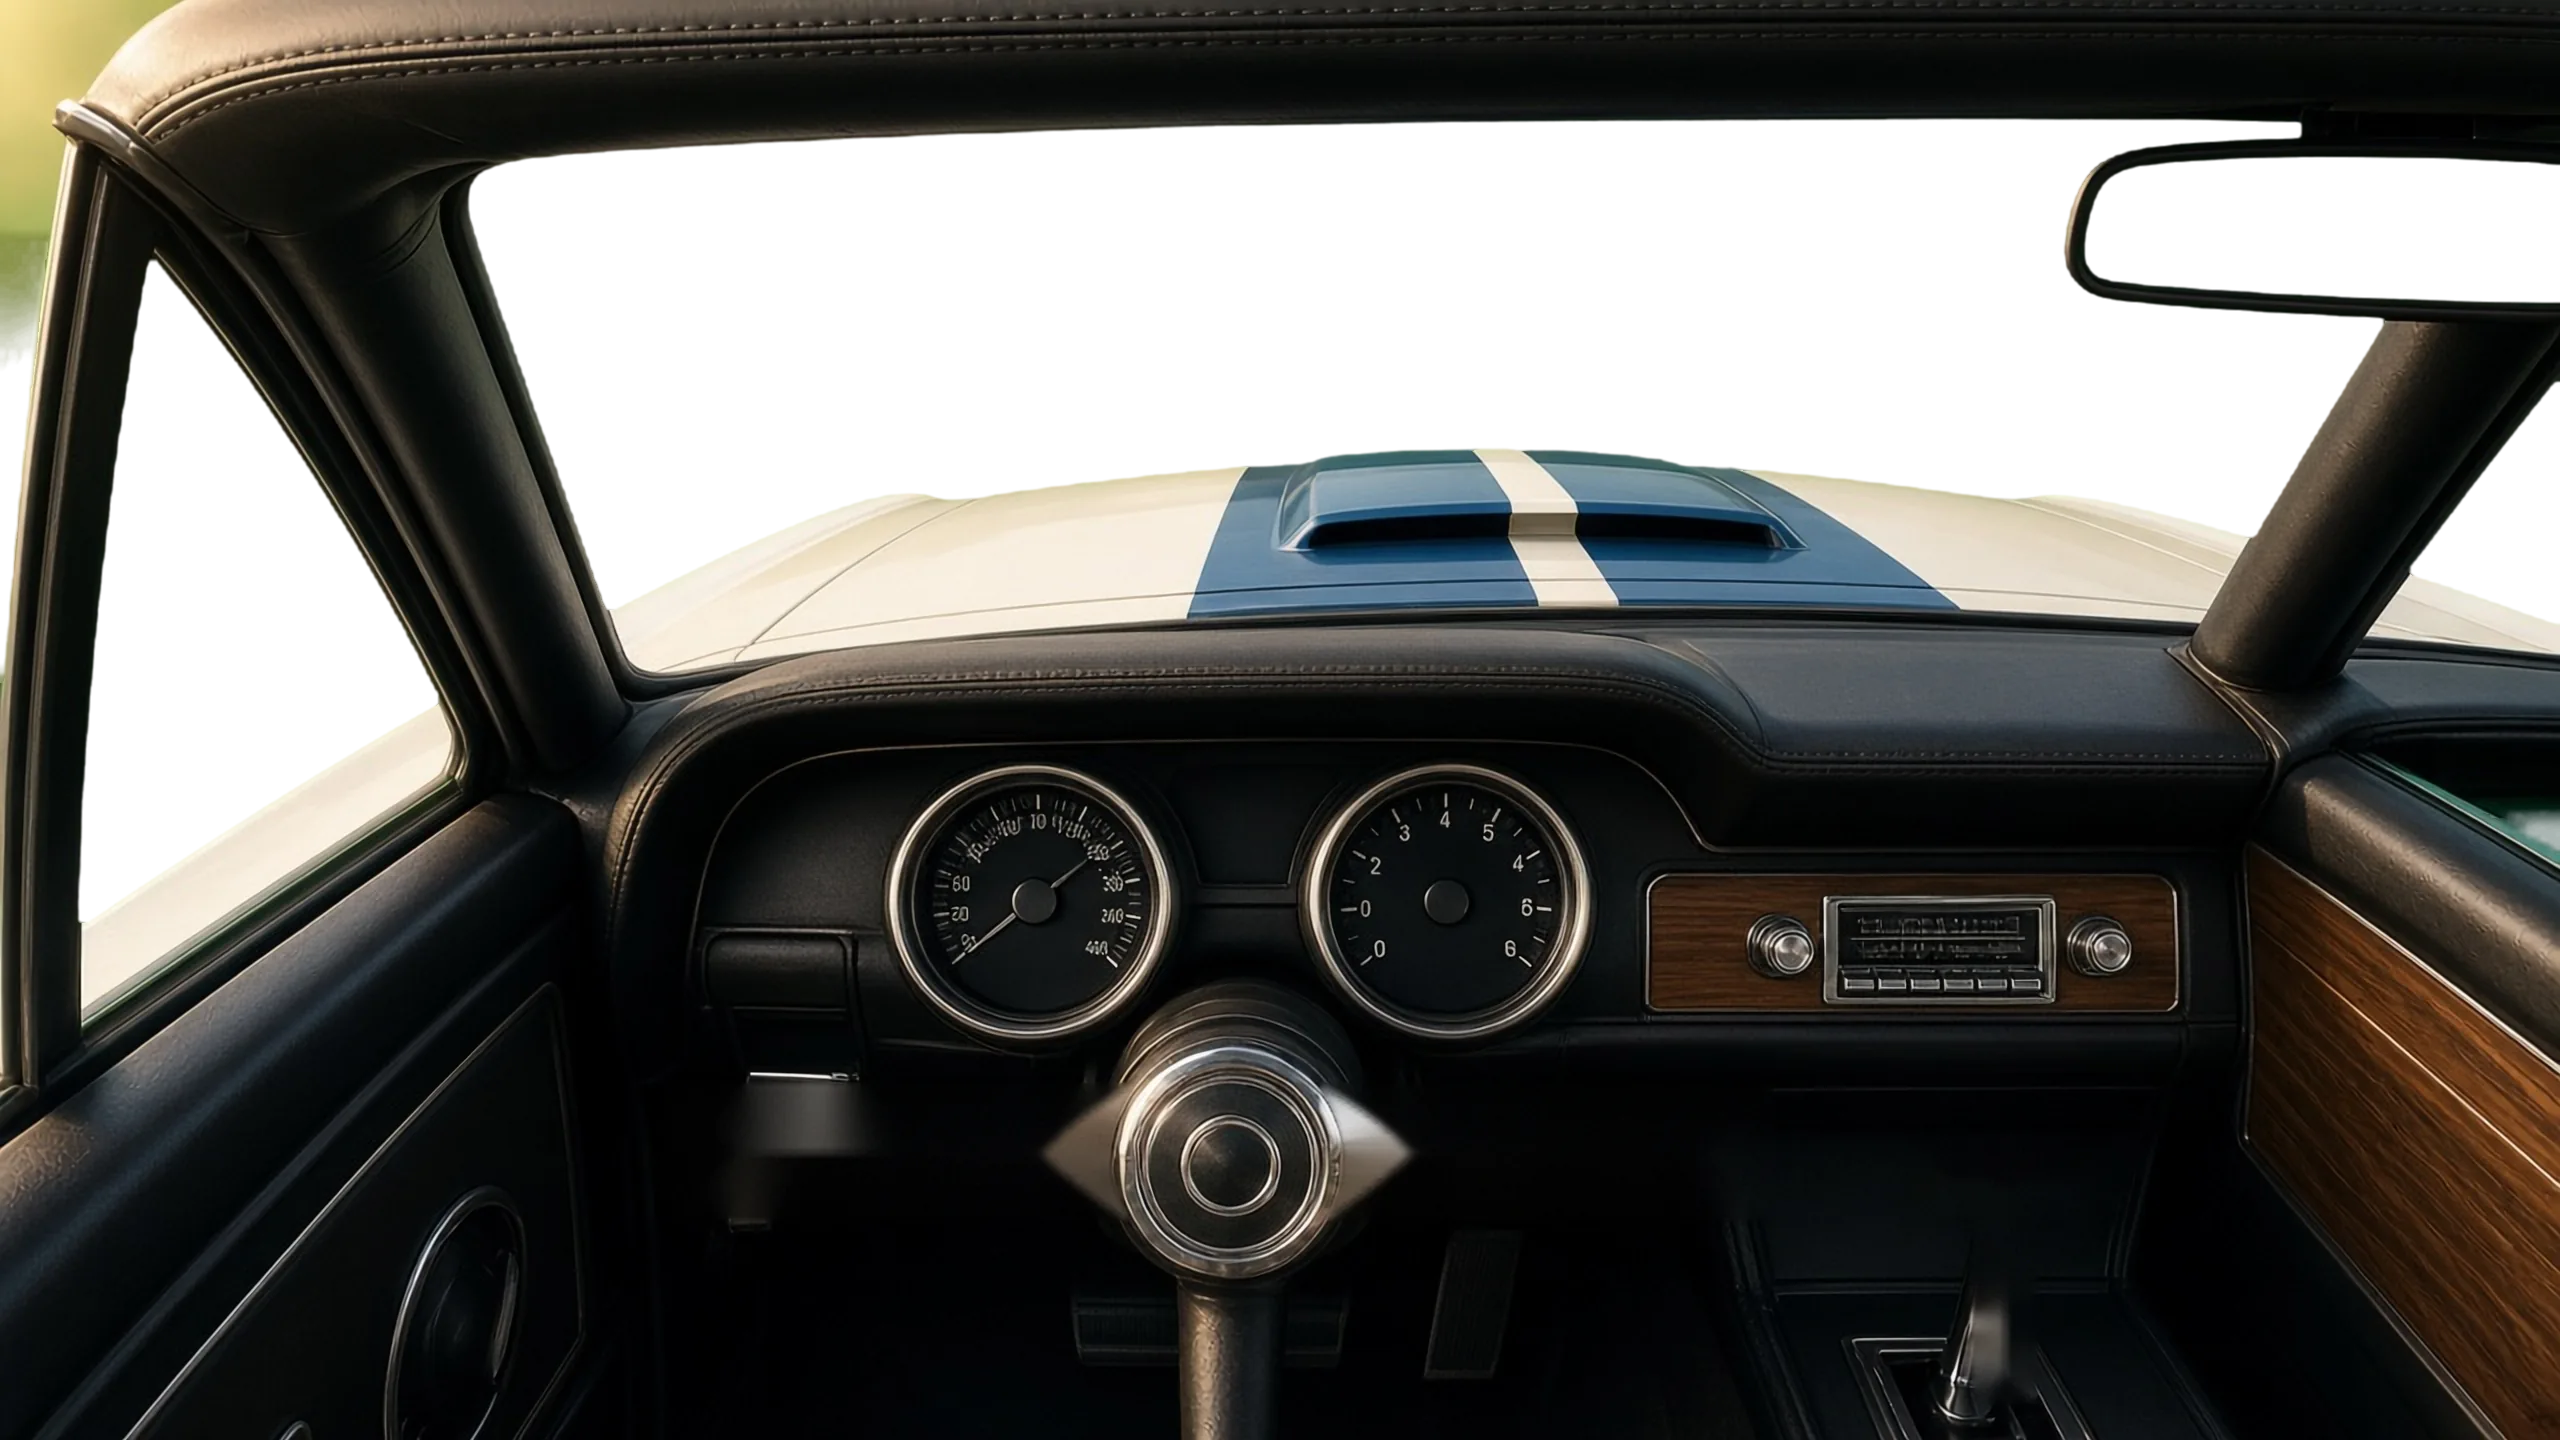
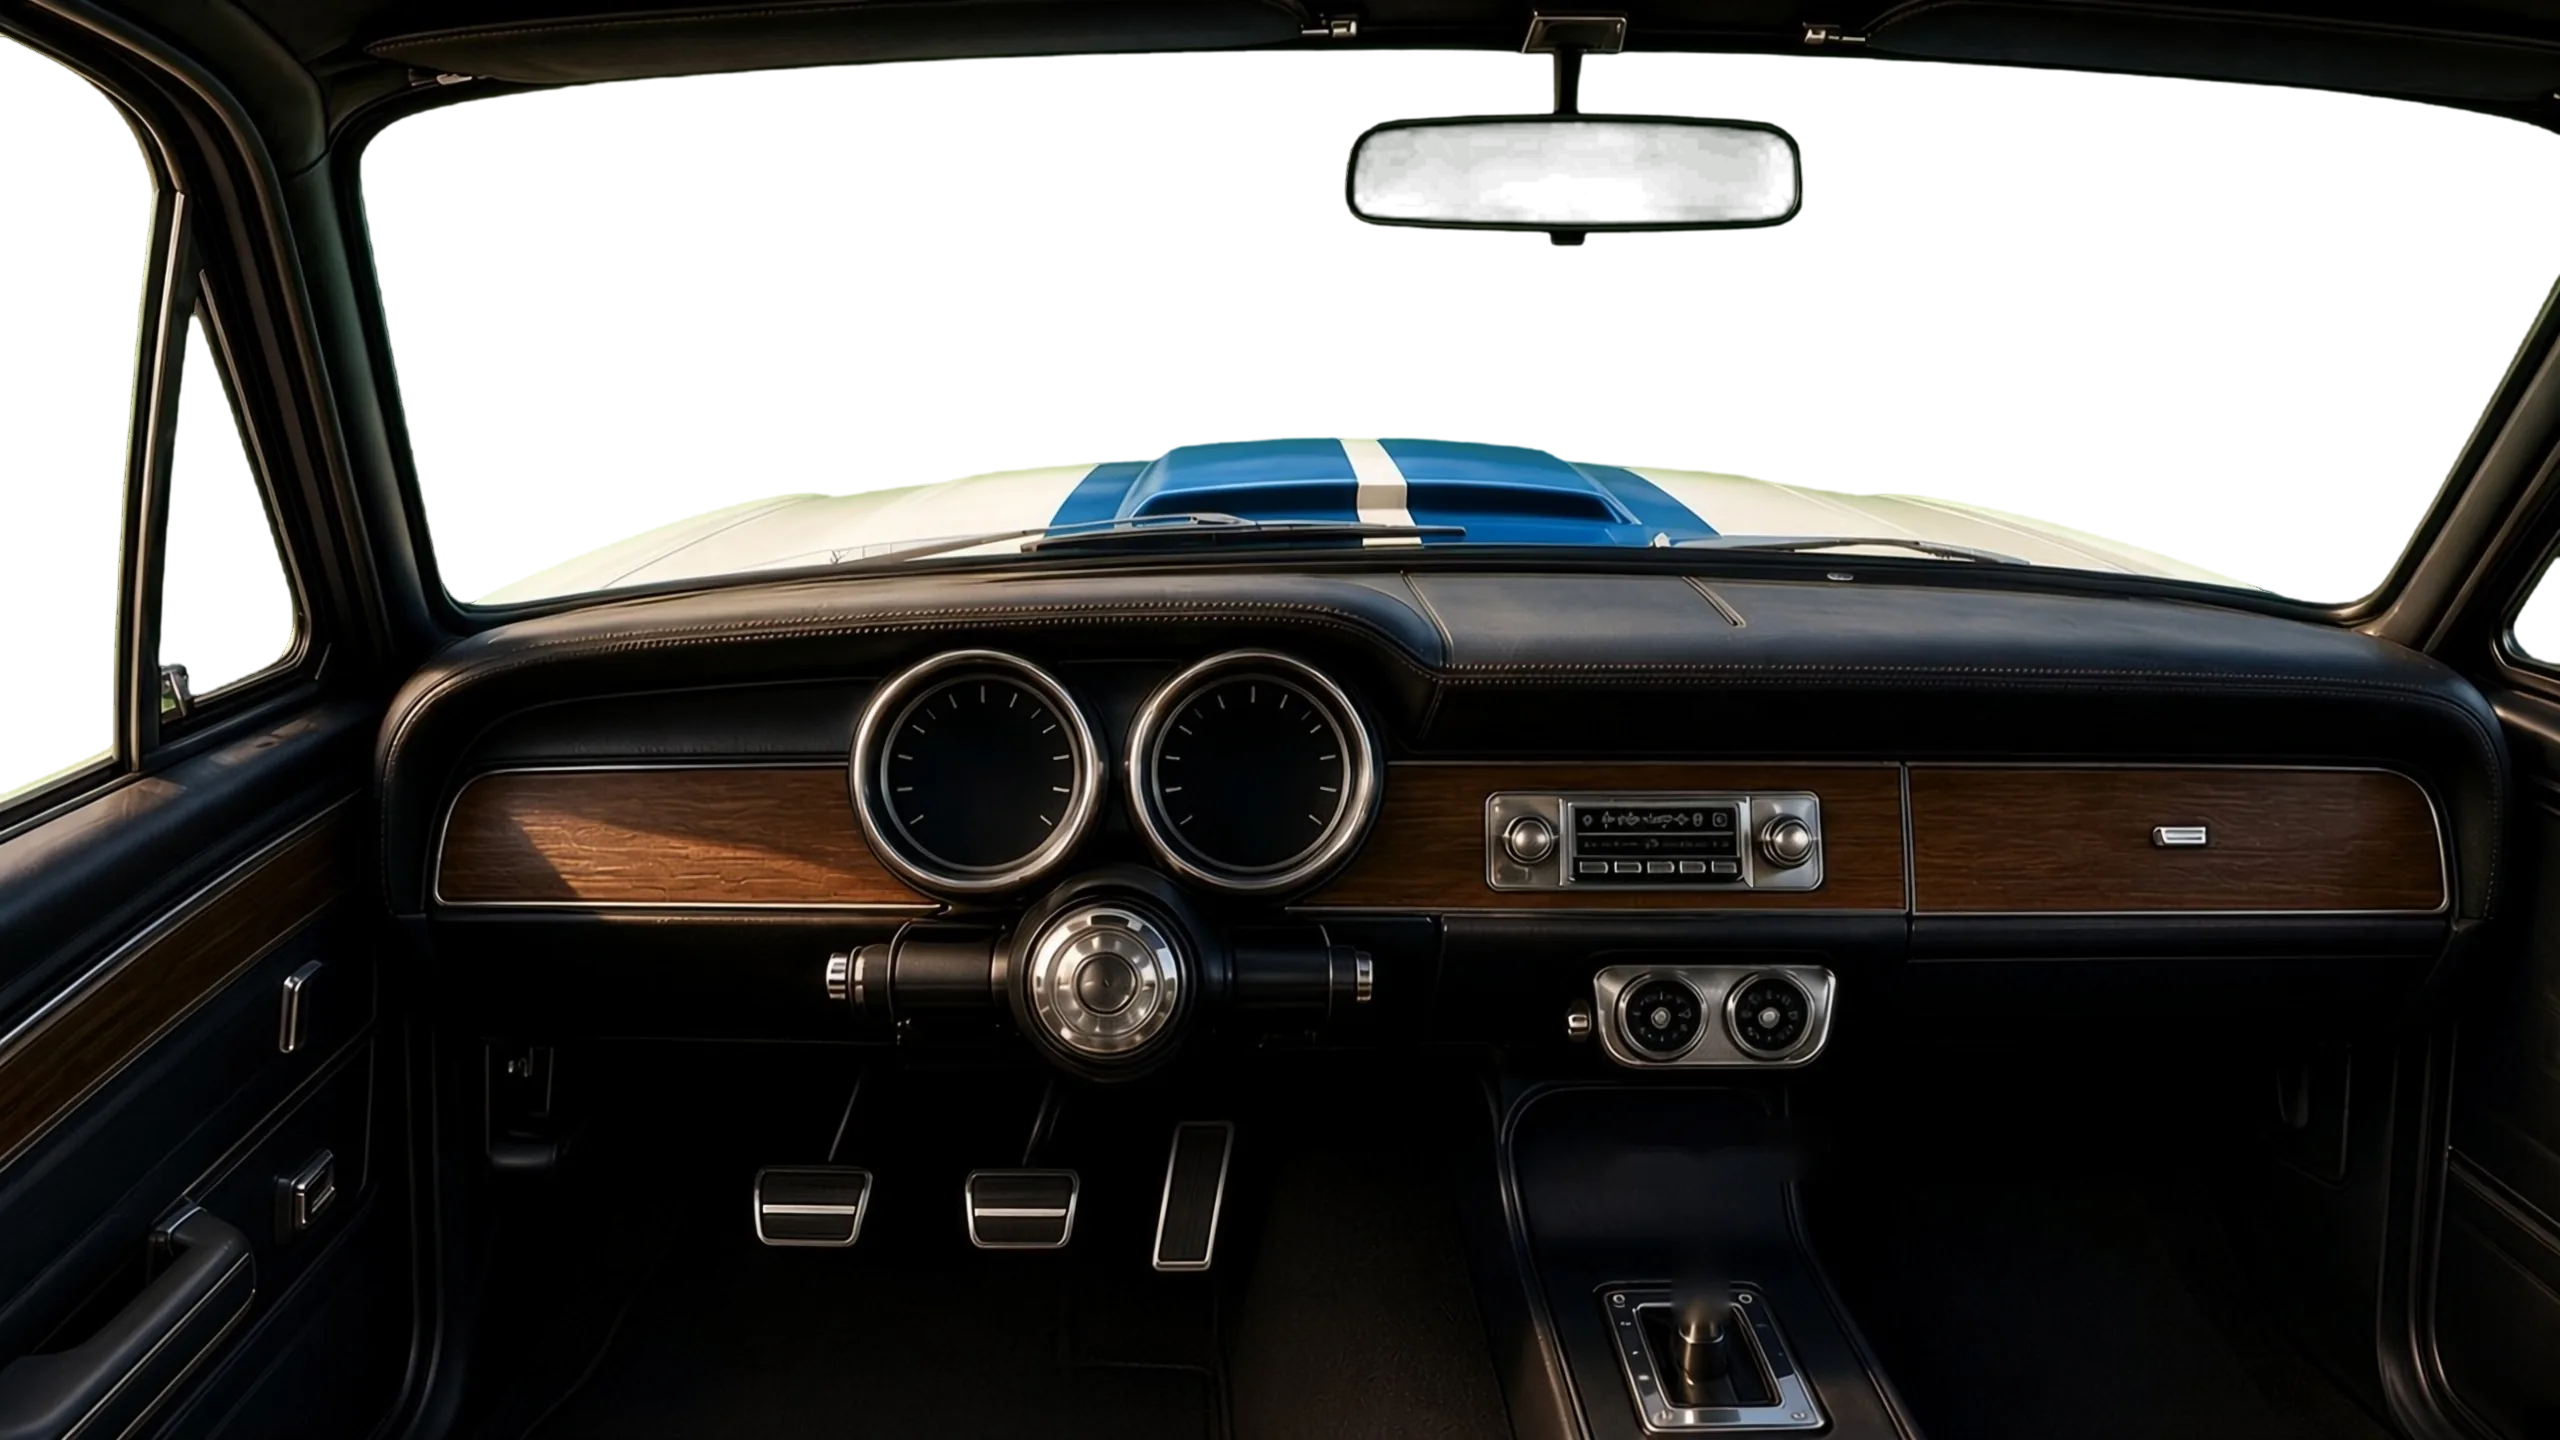
Deploy v1.4.1

diff --git a/index.html b/index.html
@@ -10,7 +10,7 @@
 <link rel="icon" href="data:,">
 <link rel="manifest" href="assets/manifest.webmanifest">
 <link rel="apple-touch-icon" href="assets/icon-180.png">
-<title>Street Rod: engine sound + driving demo (v1.4)</title>
+<title>Street Rod: engine sound + driving demo (v1.4.1)</title>
 <style>
 * { box-sizing: border-box; -webkit-tap-highlight-color: transparent; }
 html, body { margin: 0; background: #1a120c; color: #eadfc6; font: 15px/1.45 Georgia, 'Times New Roman', serif; }
@@ -8316,7 +8316,7 @@ var GLView = (function () {
 </script>
 <script>/* js/painted-assets.js */
 /* painted-assets.js: generated by proposals/visuals-v2/interior-r3/build-assets-v2.py (Visuals v2 painted). The single-file build inlines these as data URIs. */
-var PAINTED_ASSETS = {"meta": {"upscale": "edsr-x2", "gt350": {"axisX": 617, "hub": [613, 578], "wheelR": 302, "view": {"hz": 176, "f": 900, "camH": 1.15, "roadHalf": 3.4}, "mirror": [1043, 79, 237, 71], "side": [[40, 131], [218, 131], [218, 460], [40, 460]], "shifter": [946, 566, 112, 140], "gauges": {"speedo": [513, 448, 57], "tach": [725, 449, 58]}, "radioDial": [917, 452, 104, 25], "wheel": {"px": 1232, "logical": 616.0}}, "caddy": {"axisX": 518, "hub": [512, 540], "wheelR": 330, "view": {"hz": 186, "f": 900, "camH": 1.2, "roadHalf": 3.4}, "mirror": [852, 78, 301, 64], "side": [[0, 30], [55, 32], [73, 55], [60, 200], [42, 300], [30, 375], [0, 380]], "ribbon": [333, 368, 441, 76], "prndsl": [506, 452, 96, 20], "radioDial": [907, 455, 121, 20], "plate": [1032, 437, 92, 46], "gauges": {"fuel": [263, 560, 22], "clock": [816, 564, 22]}, "wheel": {"px": 1346, "logical": 673.0}}, "backdrop": {"w": 1280, "h": 720, "hz": 319, "vx": 640, "roadHalfPx": 625, "bottomPx": 401}}, "files": {"caddy-cockpit": "assets/painted/caddy-cockpit.webp", "caddy-wheel-shadow": "assets/painted/caddy-wheel-shadow.webp", "caddy-wheel": "assets/painted/caddy-wheel.webp", "desert-backdrop": "assets/painted/desert-backdrop.jpg", "gt350-cockpit": "assets/painted/gt350-cockpit.webp", "gt350-shifter": "assets/painted/gt350-shifter.webp", "gt350-wheel-shadow": "assets/painted/gt350-wheel-shadow.webp", "gt350-wheel": "assets/painted/gt350-wheel.webp"}};
+var PAINTED_ASSETS = {"meta": {"upscale": "edsr-x2", "gt350": {"axisX": 555, "hub": [552, 490], "wheelR": 300, "view": {"hz": 196, "f": 900, "camH": 1.15, "roadHalf": 3.4}, "mirror": [678, 62, 218, 49], "side": [[0, 19], [146, 19], [146, 396], [0, 396]], "shifter": [792, 554, 128, 108], "gauges": {"speedo": [485, 385, 47], "tach": [625, 385, 47]}, "radioDial": [788, 404, 80, 22], "under": {"oil": [830, 507, 17], "amps": [883, 507, 17]}, "badge": [1026, 410, 128, 18], "wheel": {"px": 1224, "logical": 612.0}}, "caddy": {"axisX": 518, "hub": [512, 540], "wheelR": 330, "view": {"hz": 186, "f": 900, "camH": 1.2, "roadHalf": 3.4}, "mirror": [852, 78, 301, 64], "side": [[0, 30], [55, 32], [73, 55], [60, 200], [42, 300], [30, 375], [0, 380]], "ribbon": [333, 368, 441, 76], "prndsl": [506, 452, 96, 20], "radioDial": [907, 455, 121, 20], "plate": [1032, 437, 92, 46], "gauges": {"fuel": [263, 560, 22], "clock": [816, 564, 22]}, "wheel": {"px": 1346, "logical": 673.0}}, "backdrop": {"w": 1280, "h": 720, "hz": 319, "vx": 640, "roadHalfPx": 625, "bottomPx": 401}}, "files": {"caddy-cockpit": "assets/painted/caddy-cockpit.webp", "caddy-wheel-shadow": "assets/painted/caddy-wheel-shadow.webp", "caddy-wheel": "assets/painted/caddy-wheel.webp", "desert-backdrop": "assets/painted/desert-backdrop.jpg", "gt350-cockpit": "assets/painted/gt350-cockpit.webp", "gt350-shifter": "assets/painted/gt350-shifter.webp", "gt350-wheel-shadow": "assets/painted/gt350-wheel-shadow.webp", "gt350-wheel": "assets/painted/gt350-wheel.webp"}};
 </script>
 <script>/* js/visuals-painted.js */
 /*
@@ -8423,8 +8423,11 @@ var PaintedCockpit = (function () {
       out.angS = face(g, sp[0], sp[1], sp[2], mph ? { max: 140, major: 20, minor: 5, mid: 10, label: 'MPH', numSize: 0.16 } : { max: 220, major: 40, minor: 10, mid: 20, label: 'KM/H', numSize: 0.16 });
       out.angT = face(g, t[0], t[1], t[2], { max: 8, major: 1, minor: 0.25, mid: 0.5, red: 6.5, label: 'RPM', sub: 'x 1000', numSize: 0.19, brand: 'Cobra' });
       // legible badge on the wood: "Shelby Cobra GT 350" plate
-      var rd = m.radioDial; g.save(); rr(g, rd[0] - 6, rd[1] + 64, rd[2] + 12, 18, 3); g.fillStyle = lin(g, 0, rd[1] + 64, 0, rd[1] + 82, [[0, '#f1f1f1'], [0.5, '#9a9ea3'], [1, '#e6e6e6']]); g.fill();
-      rr(g, rd[0] - 4, rd[1] + 66, rd[2] + 8, 14, 2); g.fillStyle = '#7d1410'; g.fill(); g.fillStyle = '#f3e7c8'; g.font = 'italic bold 9.5px Georgia, serif'; g.textAlign = 'center'; g.fillText('Shelby Cobra GT 350', rd[0] + rd[2] / 2, rd[1] + 76.5); g.restore();
+      var bd = m.badge; g.save(); g.shadowColor = 'rgba(0,0,0,0.5)'; g.shadowBlur = 3; g.shadowOffsetY = 1.5; rr(g, bd[0], bd[1], bd[2], bd[3], 3); g.fillStyle = lin(g, 0, bd[1], 0, bd[1] + bd[3], [[0, '#f1f1f1'], [0.5, '#9a9ea3'], [1, '#e6e6e6']]); g.fill(); g.restore();
+      g.save(); rr(g, bd[0] + 2, bd[1] + 2, bd[2] - 4, bd[3] - 4, 2); g.fillStyle = '#7d1410'; g.fill(); g.fillStyle = '#f3e7c8'; g.font = 'italic bold ' + (bd[3] * 0.55).toFixed(1) + 'px Georgia, serif'; g.textAlign = 'center'; g.fillText('Shelby Cobra GT 350', bd[0] + bd[2] / 2, bd[1] + bd[3] * 0.7); g.restore();
+      if (m.under) { var U = m.under, ivory0 = [[0, '#1d1b19'], [1, '#050505']];
+        out.angOil = face(g, U.oil[0], U.oil[1], U.oil[2], { max: 80, major: 40, minor: 10, noNums: true, a0: Math.PI, a1: Math.PI * 2, label: 'OIL', face: ivory0 });
+        out.angAmp = face(g, U.amps[0], U.amps[1], U.amps[2], { max: 60, major: 30, minor: 10, noNums: true, a0: Math.PI, a1: Math.PI * 2, label: 'AMP', face: ivory0 }); }
     } else {
       var R = m.ribbon, x0 = R[0], y0 = R[1], w = R[2], h = R[3];
       g.save(); rr(g, x0, y0, w, h, 22); g.clip();
@@ -8492,6 +8495,8 @@ var PaintedCockpit = (function () {
       needle(g, sp[0], sp[1], sp[2], C.angS(isMph ? mph : s.kmh), '#ff6a1e'); needle(g, t[0], t[1], t[2], C.angT(s.rpm / 1000), '#ff6a1e');
       glass(g, sp[0], sp[1], sp[2]); glass(g, t[0], t[1], t[2]);
       dialGlass(g, m.radioDial, [55, 70, 100, 130, 160], false);
+      if (m.under) { var U = m.under, oilP = running ? Math.min(70, 18 + s.rpm / 100) : 0, amp = running ? 30 + Math.max(-12, Math.min(14, (s.rpm - 1500) / 300)) : 22;
+        needle(g, U.oil[0], U.oil[1] + 2, U.oil[2], C.angOil(oilP), '#ff6a1e', 2.2); needle(g, U.amps[0], U.amps[1] + 2, U.amps[2], C.angAmp(amp), '#ff6a1e', 2.2); glass(g, U.oil[0], U.oil[1], U.oil[2]); glass(g, U.amps[0], U.amps[1], U.amps[2]); }
       // Hurst T-handle: painted sprite, nudged through the H pattern (1-2 left, 3-4 right; odd forward, even back)
       var k = m.shifter, gear = s.gear | 0, dxs = { 0: 0, 1: -8, 2: -8, 3: 6, 4: 6 }[gear] || 0, dys = gear ? (gear % 2 ? -6 : 6) : 0;
       g.drawImage(A['gt350-shifter'], k[0] + dxs, k[1] + dys, k[2], k[3]);
@@ -8589,7 +8594,8 @@ var ProjectHistory = {
       { v: 'v1.2.1', date: '2026-11-11', status: 'done', text: 'This About / History panel.' },
       { v: 'v1.3', date: '2026-11-11', status: 'done', text: 'Realistic real-time 3D visuals (WebGL): car models seen from behind, period cockpits with live gauges, moving road and scenery, smoke, steering.' },
       { v: 'v1.3.1', date: '2026-11-11', status: 'done', text: 'Quarter-mile drag strip with a Christmas tree, reaction time, splits, trap speeds and best times per car; Cadillac radio playing an original 1950s-style rockabilly tune through a 1959 AM tube-radio sound. The 3D visuals are renamed v3 (v2 is reserved for the detailed drawn style).' },
-      { v: 'v1.4', date: '2026-11-11', status: 'done', text: 'Visuals v2 \u2013 painted: new near-photographic painted cockpits for both cars, seen straight ahead from the driver\u2019s seat, with live needles, odometer, ribbon speedometer, gear indicator, lamps, radio dial, moving shifter, turning steering wheel, painted desert road and moving side-window view. Selectable under Visuals; the default stays v1 (drawn), v3 is the 3D preview.' }
+      { v: 'v1.4', date: '2026-11-11', status: 'done', text: 'Visuals v2 \u2013 painted: new near-photographic painted cockpits for both cars, seen straight ahead from the driver\u2019s seat, with live needles, odometer, ribbon speedometer, gear indicator, lamps, radio dial, moving shifter, turning steering wheel, painted desert road and moving side-window view. Selectable under Visuals; the default stays v1 (drawn), v3 is the 3D preview.' },
+      { v: 'v1.4.1', date: '2026-11-11', status: 'done', text: 'GT350 painted cockpit redone with the full cabin width: the dash, wood-grain band, radio, under-dash gauges, glovebox with Shelby plate and console continue across to the passenger side, the right A-pillar sits at the far edge of the windshield (it looked too narrow on the right before).' }
     ] }
   ]
 };
